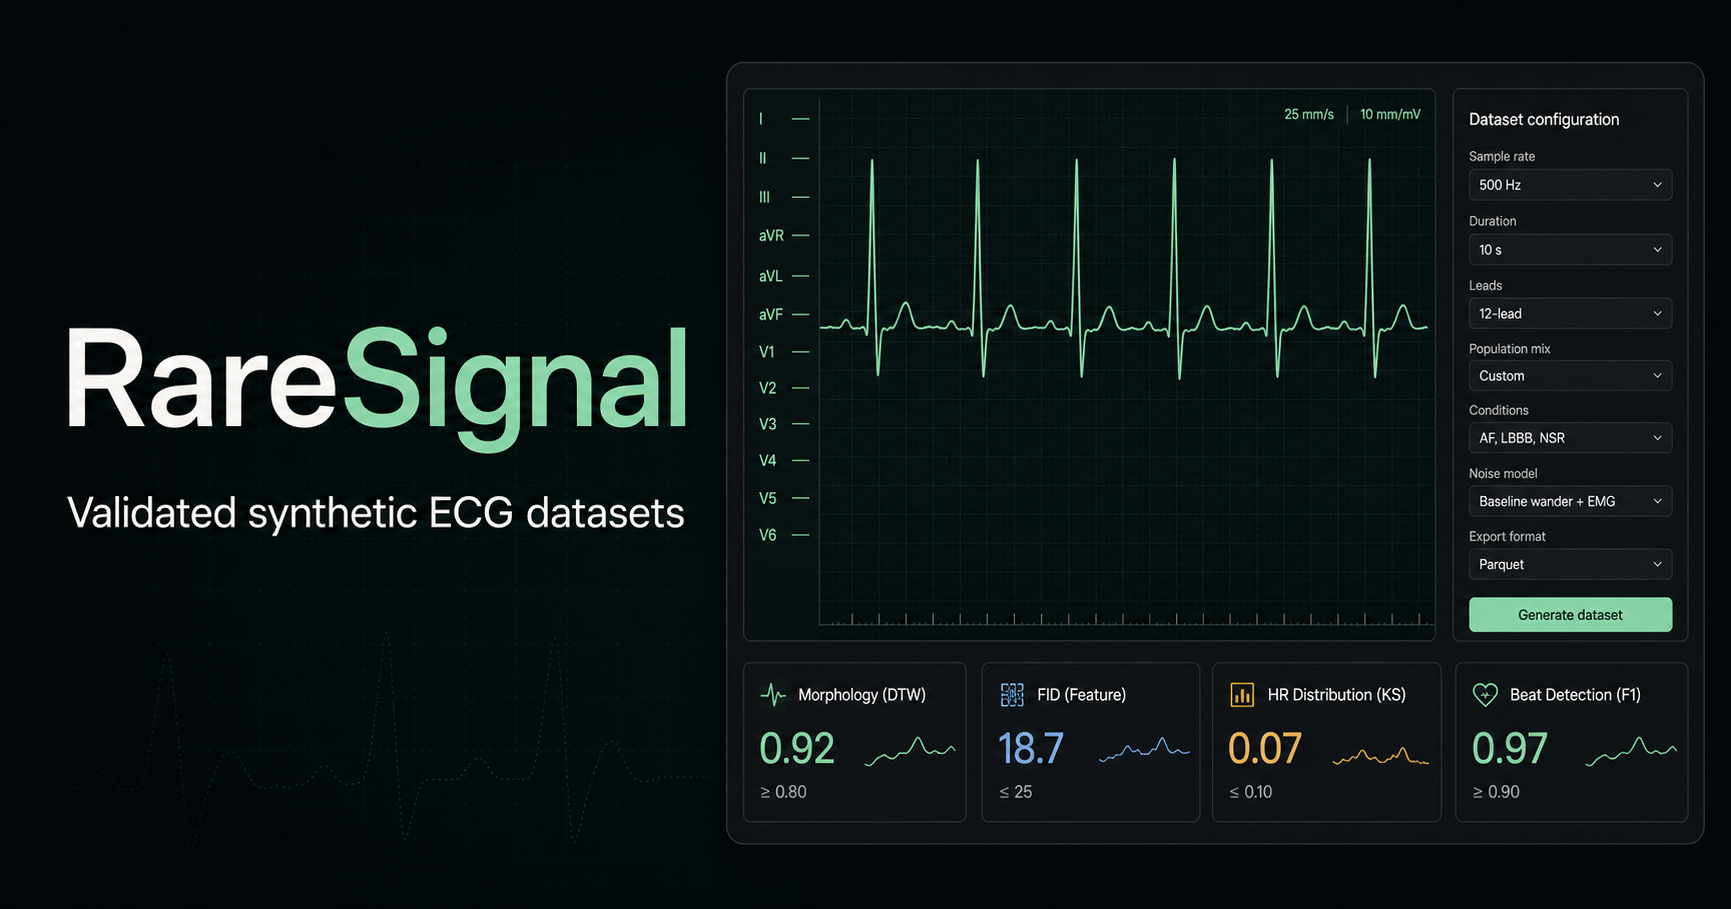
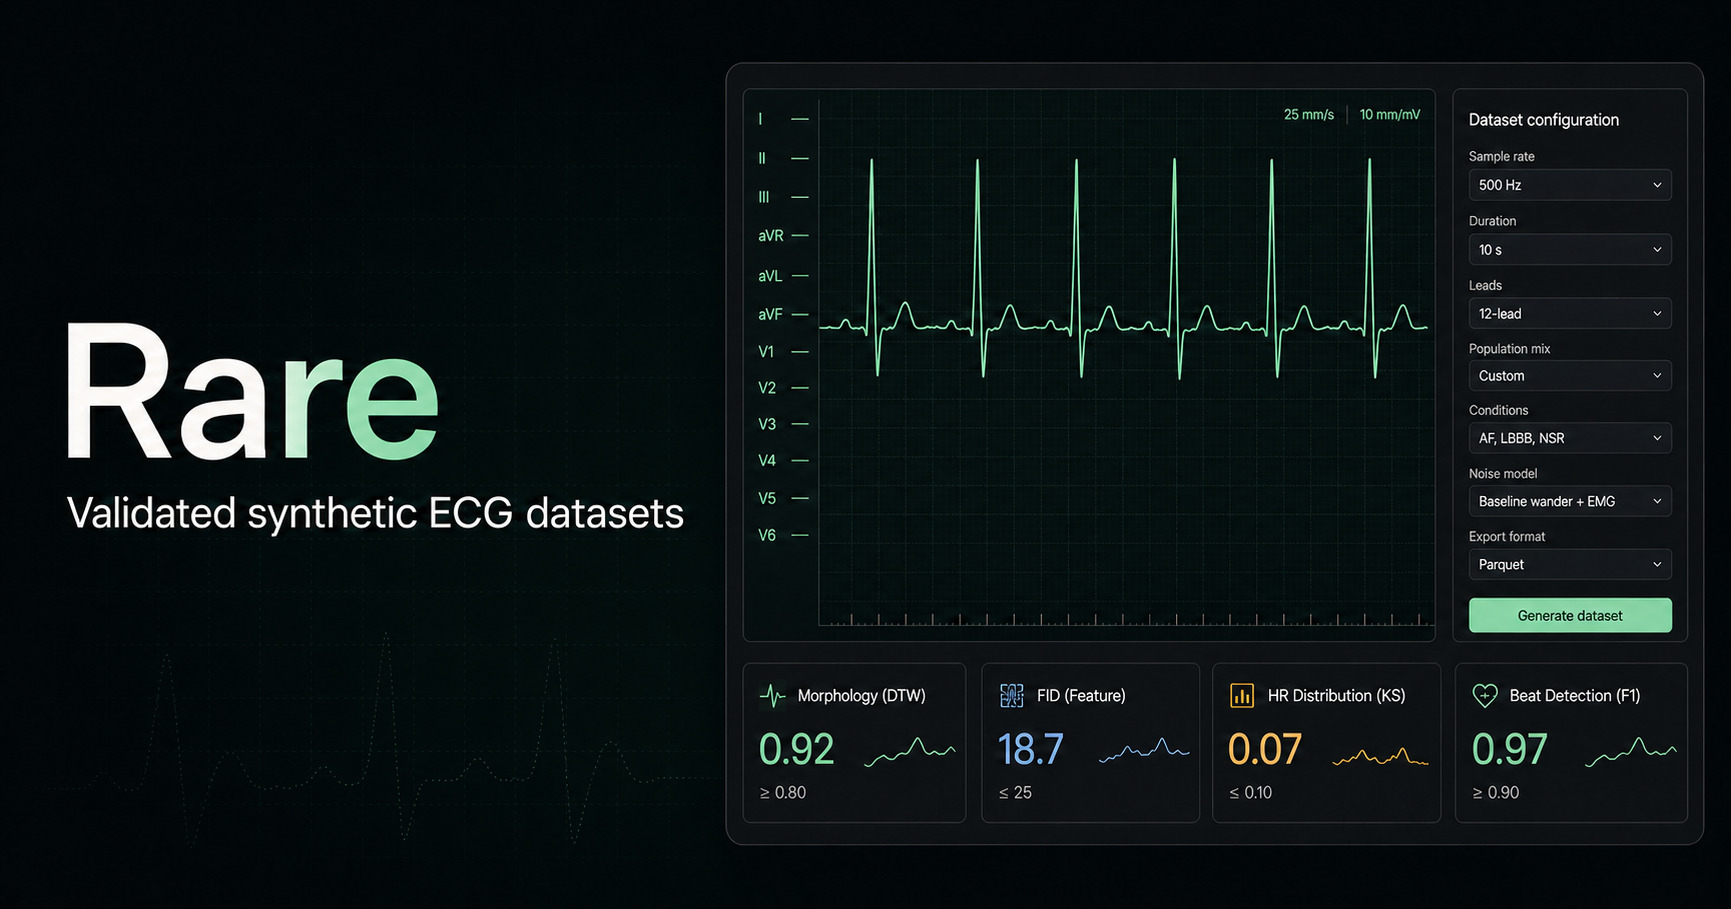
Rename product to Rare

diff --git a/app/page.tsx b/app/page.tsx
@@ -165,7 +165,7 @@ function Logo() {
   return (
     <div className="brand">
       <span className="brand-mark" aria-hidden="true"><i /></span>
-      <span>RareSignal</span>
+      <span>Rare</span>
     </div>
   );
 }
@@ -279,13 +279,13 @@ export default function Home() {
       heart_rate_bpm: { minimum: heartRateMin, maximum: heartRateMax },
       device_calibration: `${device} / ${selectedDevice.calibration}`,
       artifact_mix_percent: artifacts,
-      note: "Illustrative RareSignal demo package",
+      note: "Illustrative Rare demo package",
     };
     const blob = new Blob([JSON.stringify(manifest, null, 2)], { type: "application/json" });
     const url = URL.createObjectURL(blob);
     const anchor = document.createElement("a");
     anchor.href = url;
-    anchor.download = "raresignal-demo-manifest.json";
+    anchor.download = "rare-demo-manifest.json";
     anchor.click();
     URL.revokeObjectURL(url);
     setExported(true);
@@ -333,7 +333,7 @@ export default function Home() {
               <div>
                 <p className="eyebrow">DEVICE REFERENCE COHORT</p>
                 <h1>Your signal. Your hardware. Calibrated.</h1>
-                <p>RareSignal uses a small representative cohort to learn device response, filtering, morphology, and artifact behavior.</p>
+                <p>Rare uses a small representative cohort to learn device response, filtering, morphology, and artifact behavior.</p>
               </div>
               <span className="status-pill"><i /> Calibration ready</span>
             </div>
@@ -527,7 +527,7 @@ export default function Home() {
                 <div className="benchmark-value"><span>72.4%</span><b>→</b><strong>86.6%</strong></div>
                 <div className="benchmark-bars">
                   <div><span>Real data only</span><i><b style={{ width: "72.4%" }} /></i></div>
-                  <div className="synthetic"><span>Real + RareSignal</span><i><b style={{ width: "86.6%" }} /></i></div>
+                  <div className="synthetic"><span>Real + Rare</span><i><b style={{ width: "86.6%" }} /></i></div>
                 </div>
                 <div className="benchmark-footer"><span>+14.2 percentage points</span><small>False-positive rate held constant</small></div>
               </article>
@@ -585,7 +585,7 @@ export default function Home() {
       </section>
 
       <footer>
-        <span>RareSignal · Synthetic physiological data infrastructure</span>
+        <span>Rare · Synthetic physiological data infrastructure</span>
         <span>For training, robustness testing, and preclinical validation</span>
       </footer>
 

diff --git a/app/layout.tsx b/app/layout.tsx
@@ -11,17 +11,17 @@ export async function generateMetadata(): Promise<Metadata> {
 
   return {
     metadataBase: new URL(origin),
-    title: "RareSignal — Validated synthetic ECG datasets",
+    title: "Rare — Validated synthetic ECG datasets",
     description:
       "Generate device-matched rare-event ECG datasets with clinical, statistical, privacy, and downstream model validation.",
     openGraph: {
-      title: "RareSignal — Validated synthetic ECG datasets",
+      title: "Rare — Validated synthetic ECG datasets",
       description: "Configure, generate, and validate device-matched rare-event ECG datasets.",
-      images: [{ url: imageUrl, width: 1746, height: 909, alt: "RareSignal validated synthetic ECG datasets" }],
+      images: [{ url: imageUrl, width: 1746, height: 909, alt: "Rare validated synthetic ECG datasets" }],
     },
     twitter: {
       card: "summary_large_image",
-      title: "RareSignal — Validated synthetic ECG datasets",
+      title: "Rare — Validated synthetic ECG datasets",
       description: "Configure, generate, and validate device-matched rare-event ECG datasets.",
       images: [imageUrl],
     },

diff --git a/README.md b/README.md
@@ -1,6 +1,6 @@
-# RareSignal YC Demo
+# Rare YC Demo
 
-An interactive product demo for RareSignal, a platform that generates validated,
+An interactive product demo for Rare, a platform that generates validated,
 device-matched synthetic physiological-signal datasets for medical-device teams.
 
 The demo follows one focused ECG workflow:
